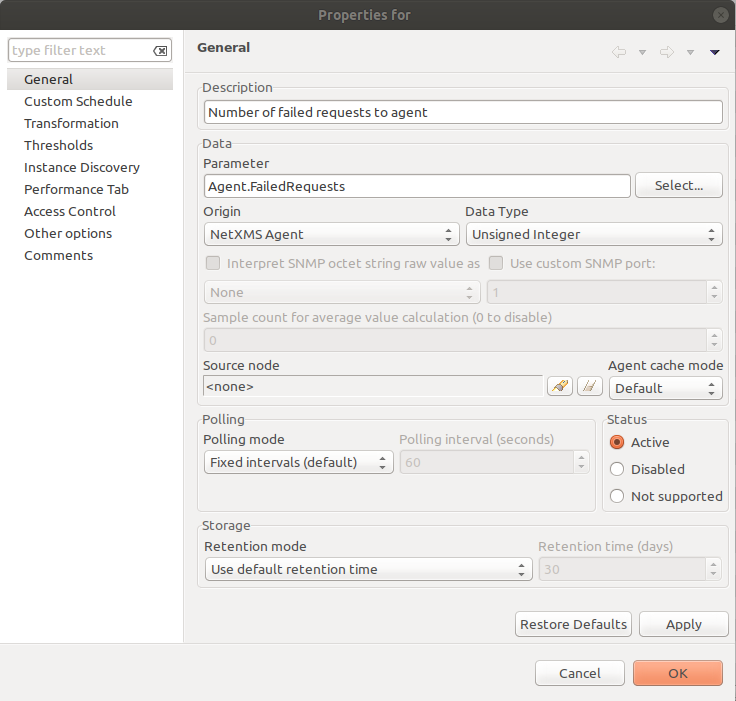
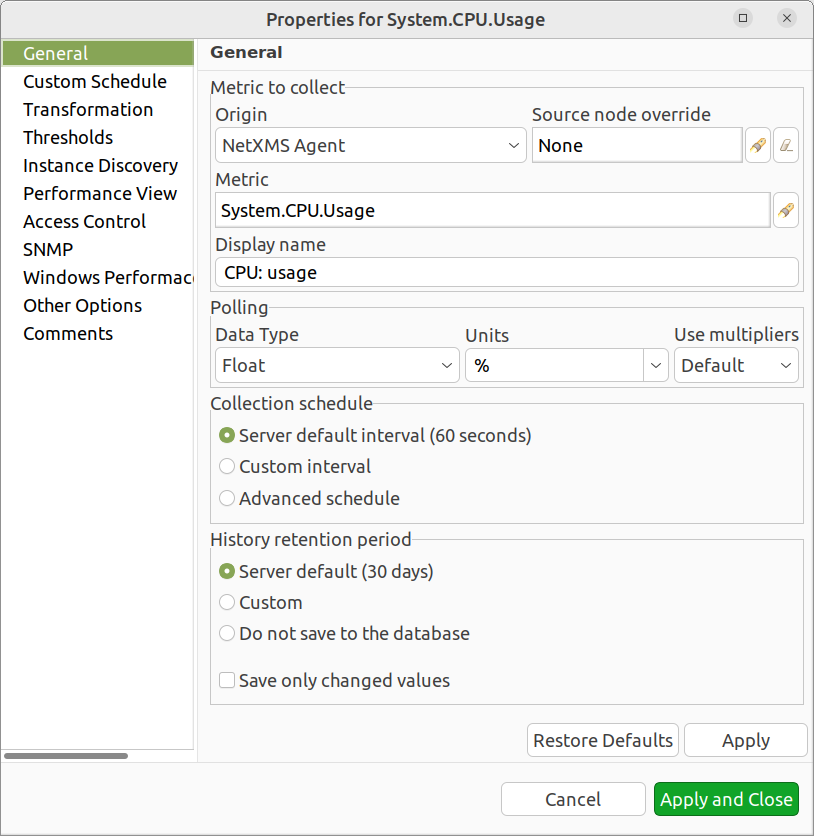
dci property description and screenshots updated

diff --git a/admin/data-collection.rst b/admin/data-collection.rst
@@ -141,7 +141,7 @@ Origin of data (method of obtaining data). Possible origins are:
 represents DCIs whose values are pushed to server by external program (usually
 via :ref:`nxapush-label` or :ref:`nxpush-label` command line tool) instead of
 being polled by the server based on the schedule. Values can also be pushed from
-a NXSL script launced on the server. 
+a NXSL script launched on the server. 
 
 
 Data Type
@@ -152,11 +152,11 @@ Data type for the metric. Can be one of the following: :guilabel:`Integer`,
 Unsigned Integer`, :guilabel:`Float` (floating point number), or
 :guilabel:`String`. Selected data type affects collected data processing - for
 example, you cannot use operations like ``less than`` or ``greater than`` on
-strings. If you select metric from the list using the :guilabel:`Select`
-button, correct data type will be set automatically.
+strings. If you select metric from the list using the :guilabel:`Select` button,
+correct data type will be set automatically.
 
-Source node
-~~~~~~~~~~~
+Source node override
+~~~~~~~~~~~~~~~~~~~~
 
 Source node of metrics collection. This can be used when other node provides
 information about this node. In this way collected data can be collected and
@@ -177,12 +177,14 @@ significant increase of your database size and possible performance degradation.
 
 Can be selected one of options:
 
-    - :guilabel:`Fixed intervals (default)` - default value will be taken from
+    - :guilabel:`Server default interval` - default value will be taken from
       :guilabel:`DefaultDCIPollingInterval` server configuration parameter.
-    - :guilabel:`Fixed intervals (custom)` - value entered on the DCI properties
-      page will be taken.
-    - :guilabel:`Use advanced scheduling` - schedules configured in
-      :guilabel:`Advanced Schedule` page will be used
+    - :guilabel:`Custom interval` - Allows to enter a custom value. This field
+      support macro resolution, so e.g. you can use %{polling_interval:600}
+      macro that will take value of ``polling_interval`` custom attribute or 600
+      if such custom attribute is not present on the node. 
+    - :guilabel:`Advanced scheduling` - schedules configured in
+      :guilabel:`Advanced Schedule` page will be used.
 
 
 Storage
@@ -196,10 +198,12 @@ degradation.
 
 Possible options:
 
-    - :guilabel:`Use default retention time` - default value will be taken from
+    - :guilabel:`Server default` - default value will be taken from
       :guilabel:`DefaultDCIRetentionTime` server configuration parameter.
-    - :guilabel:`Use default retention time` - value entered on the DCI
-      properties page will be taken.
+    - :guilabel:`Custom` - Allows to enter a custom value. This field support
+      macro resolution, so e.g. you can use %{storage_period:30} macro that will
+      take value of ``storage_period`` custom attribute or 30 if such custom
+      attribute is not present on the node. 
     - :guilabel:`Do not save collected data to database` - will not save
       collected data to database, but will store last value in memory
 
@@ -209,6 +213,8 @@ DCI configurations are created. One to store historical data collected once per
 minute and the second one, that is not stored in database, but is collected
 every second and up to date displayed on dashboards.
 
+    - :guilabel:`Save only changed values` - if enabled, value is saved to the
+      database only if it differs from last saved value. 
 
 Status
 ~~~~~~
@@ -653,8 +659,8 @@ Other available options:
       as a status, that participate in object status calculation. Such kind of
       DCI should return integer number from 0 till 4 representing object status.
     - Related object - object that is related to collected DCI. Related object
-      can be set by instance discovery filter script by using `Instance()`
-      function and accessed in NXSL from DCI object. 
+      can be set by instance discovery filter script and accessed in NXSL from
+      DCI object. 
 
 
 .. figure:: _images/dci_other_opt_page.png
